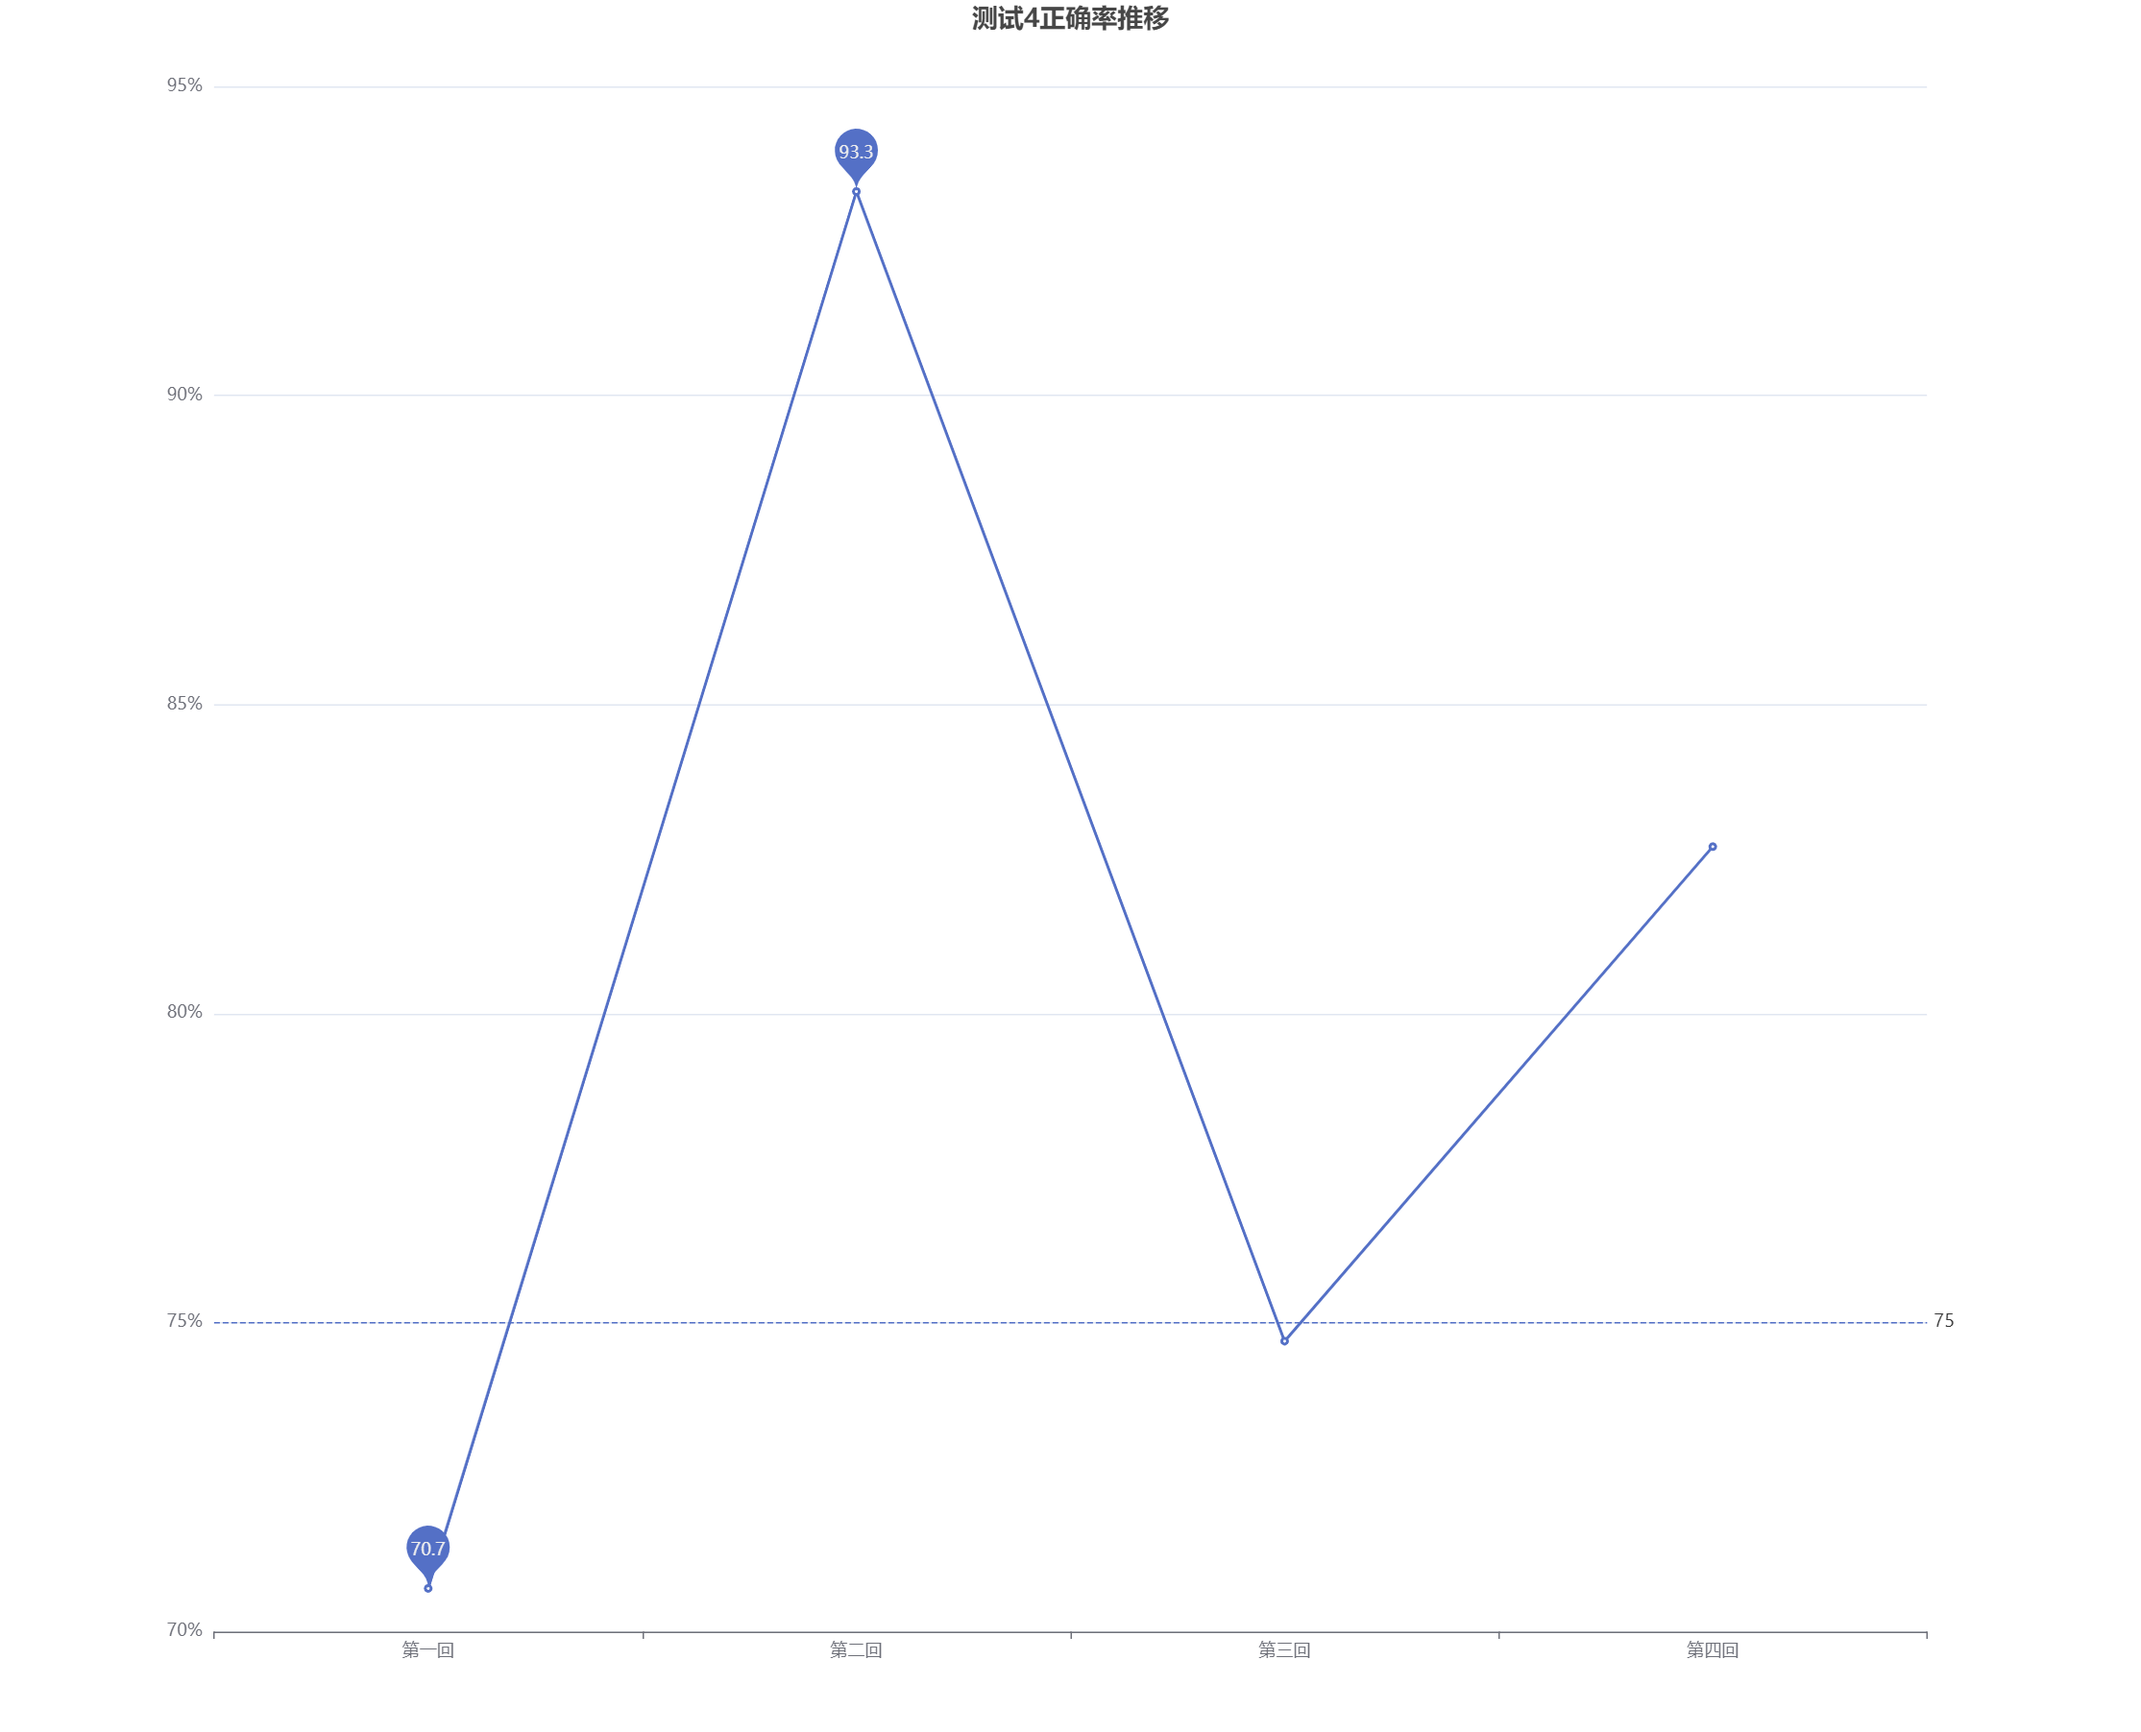
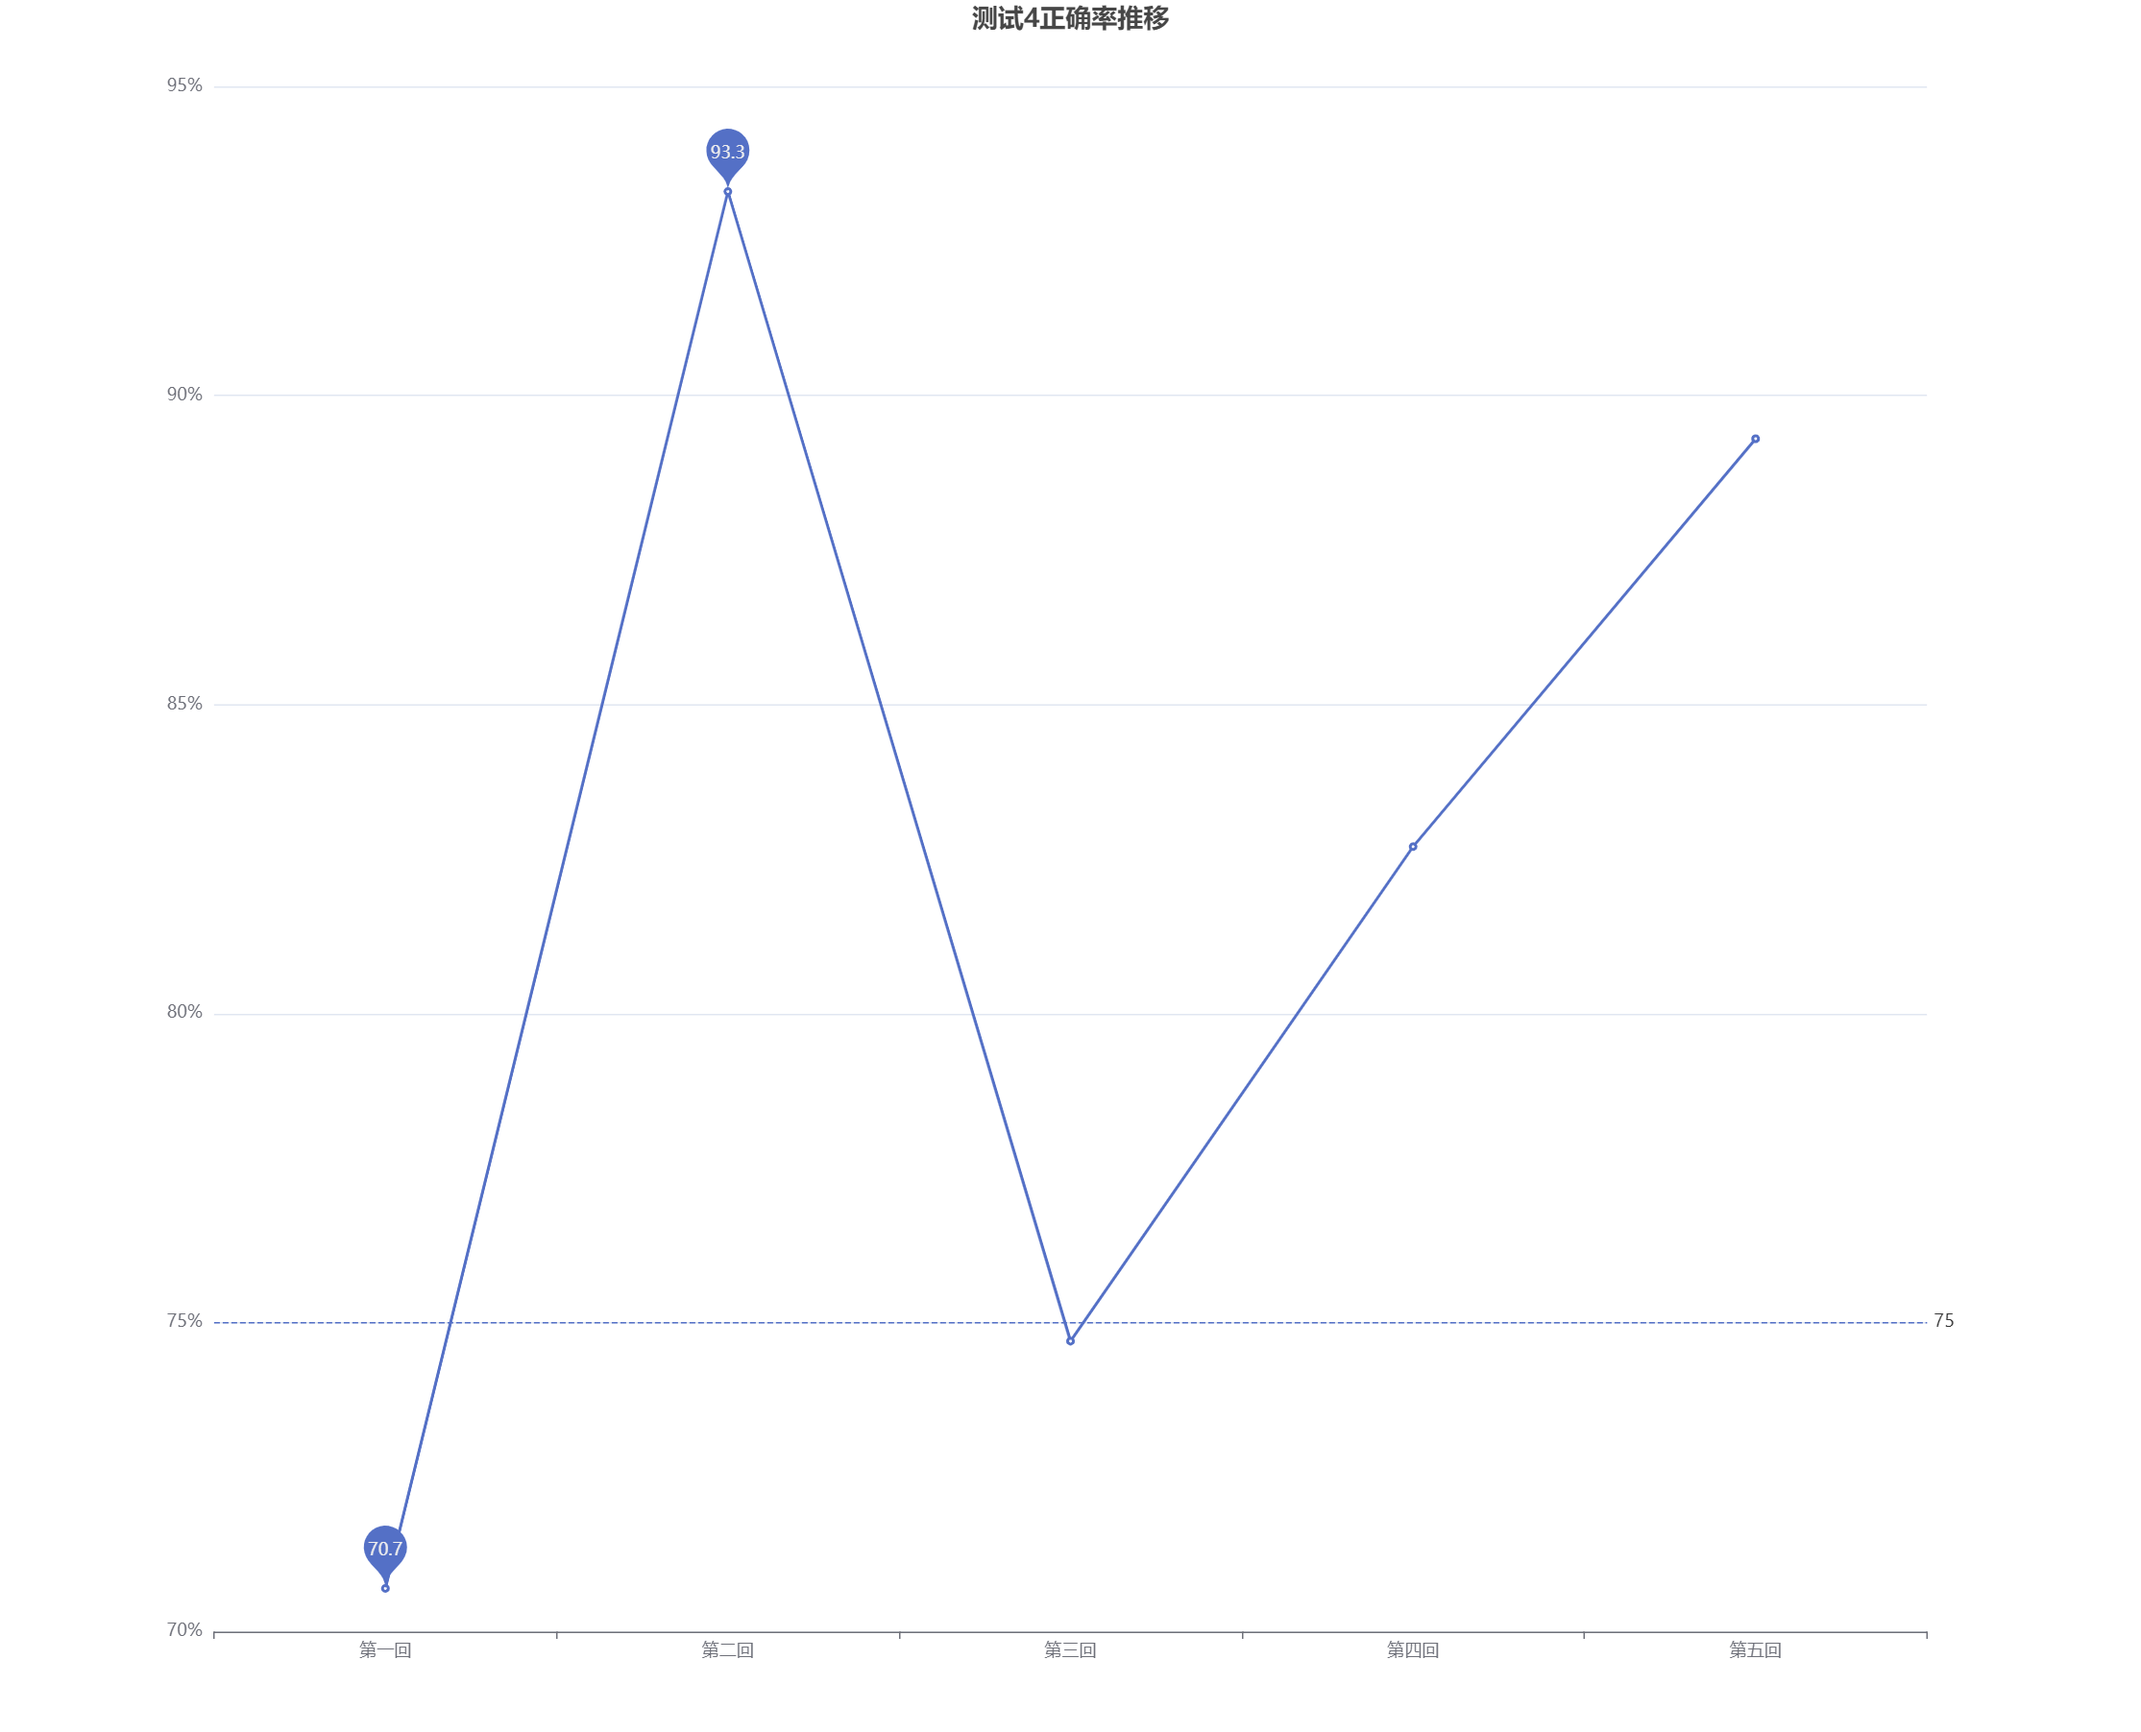
[update] up test 4 result

diff --git a/src/testReview.js b/src/testReview.js
@@ -221,16 +221,16 @@ option = {
     {
       dimensions: ["number", "frequent"],
       source: [
-        ["226", 2],
+        ["226", 3],
         ["231", 2],
         ["232", 2],
-        ["235", 2],
+        ["235", 3],
         ["236", 1],
         ["240", 2],
-        ["242", 1],
+        ["242", 2],
         ["243", 3],
-        ["244", 2],
-        ["246", 1],
+        ["244", 3],
+        ["246", 2],
         ["247", 1],
         ["249", 3],
         ["253", 1],
@@ -239,6 +239,7 @@ option = {
         ["260", 1],
         ["266", 1],
         ["267", 1],
+        ["269", 1],
         ["270", 1],
         ["271", 1],
         ["275", 2],
@@ -246,9 +247,9 @@ option = {
         ["281", 3],
         ["282", 3],
         ["283", 4],
-        ["284", 1],
+        ["284", 2],
         ["285", 1],
-        ["286", 1],
+        ["286", 2],
         ["288", 2],
         ["290", 3],
         ["293", 3],

diff --git a/src/correctRate.js b/src/correctRate.js
@@ -130,7 +130,7 @@ option = {
   },
   xAxis: {
     type: "category",
-    data: ["第一回", "第二回", "第三回", "第四回"],
+    data: ["第一回", "第二回", "第三回", "第四回", "第五回"],
   },
   yAxis: {
     type: "value",
@@ -141,7 +141,7 @@ option = {
   },
   series: [
     {
-      data: [70.7, 93.3, 74.7, 82.7],
+      data: [70.7, 93.3, 74.7, 82.7, 89.3],
       type: "line",
       markLine: {
         symbol: ["none", "none"],
